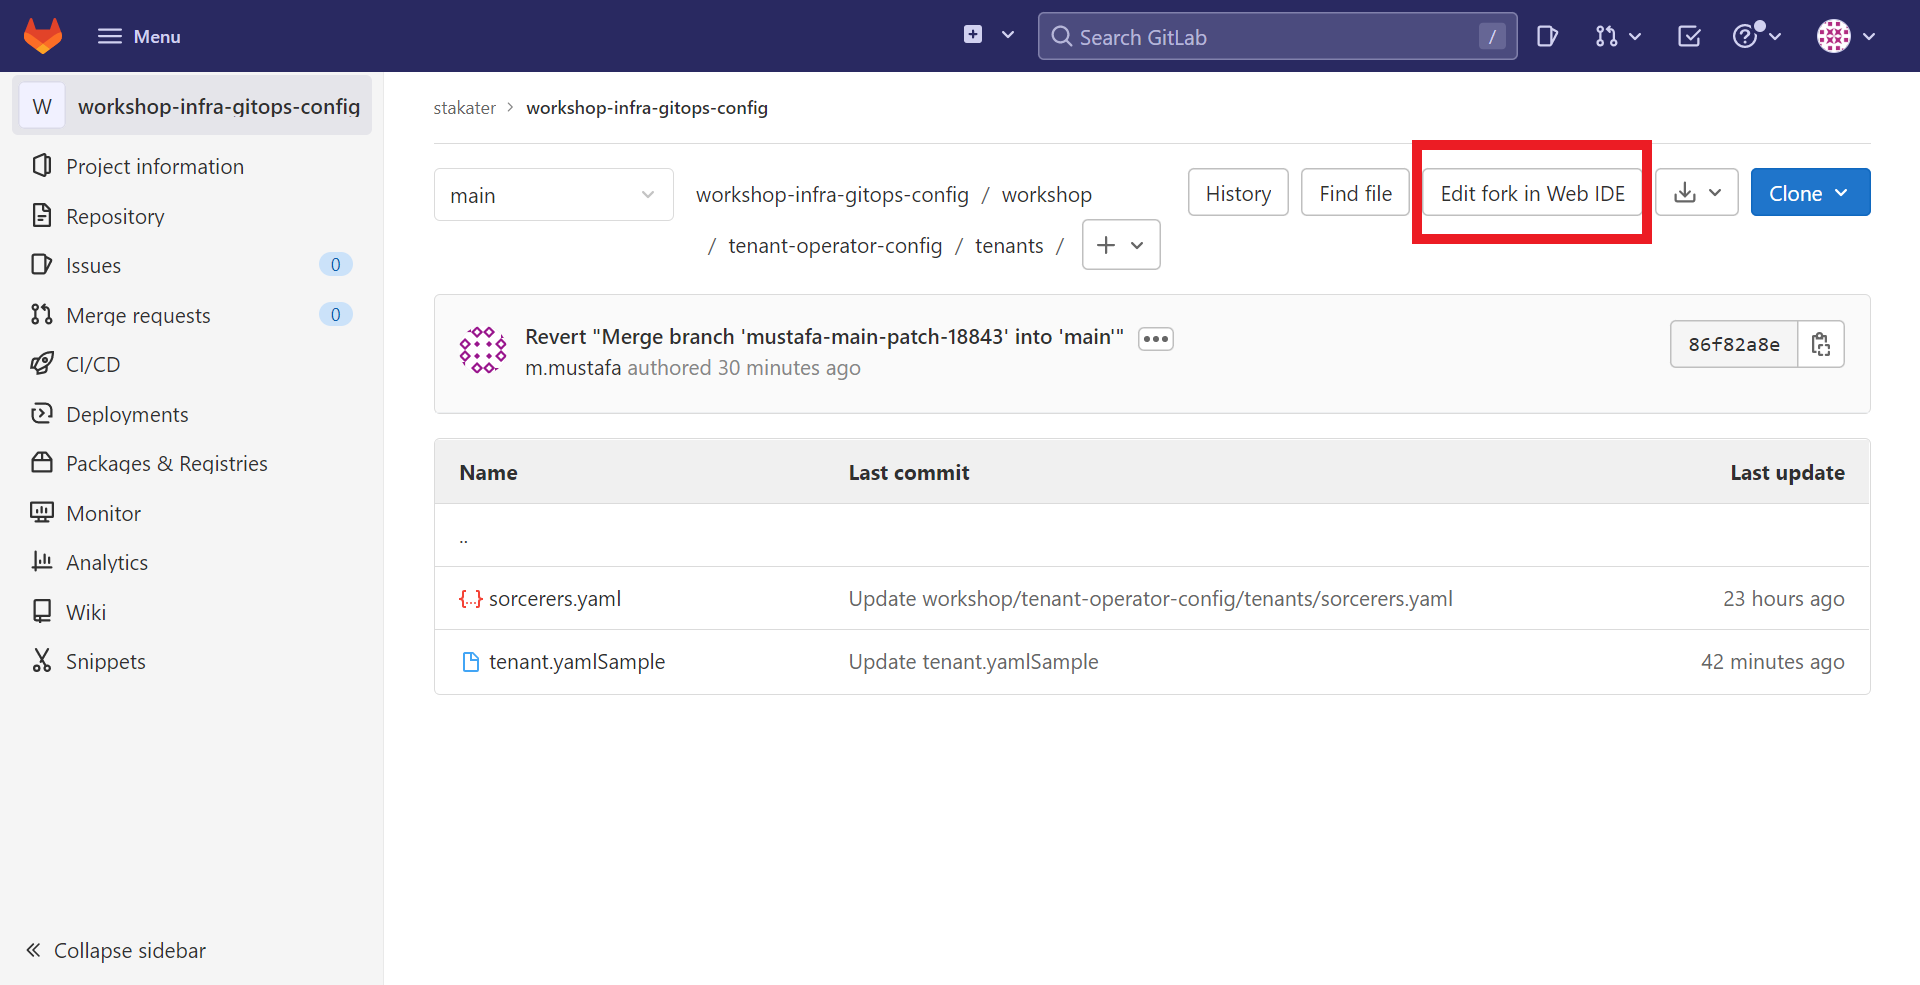
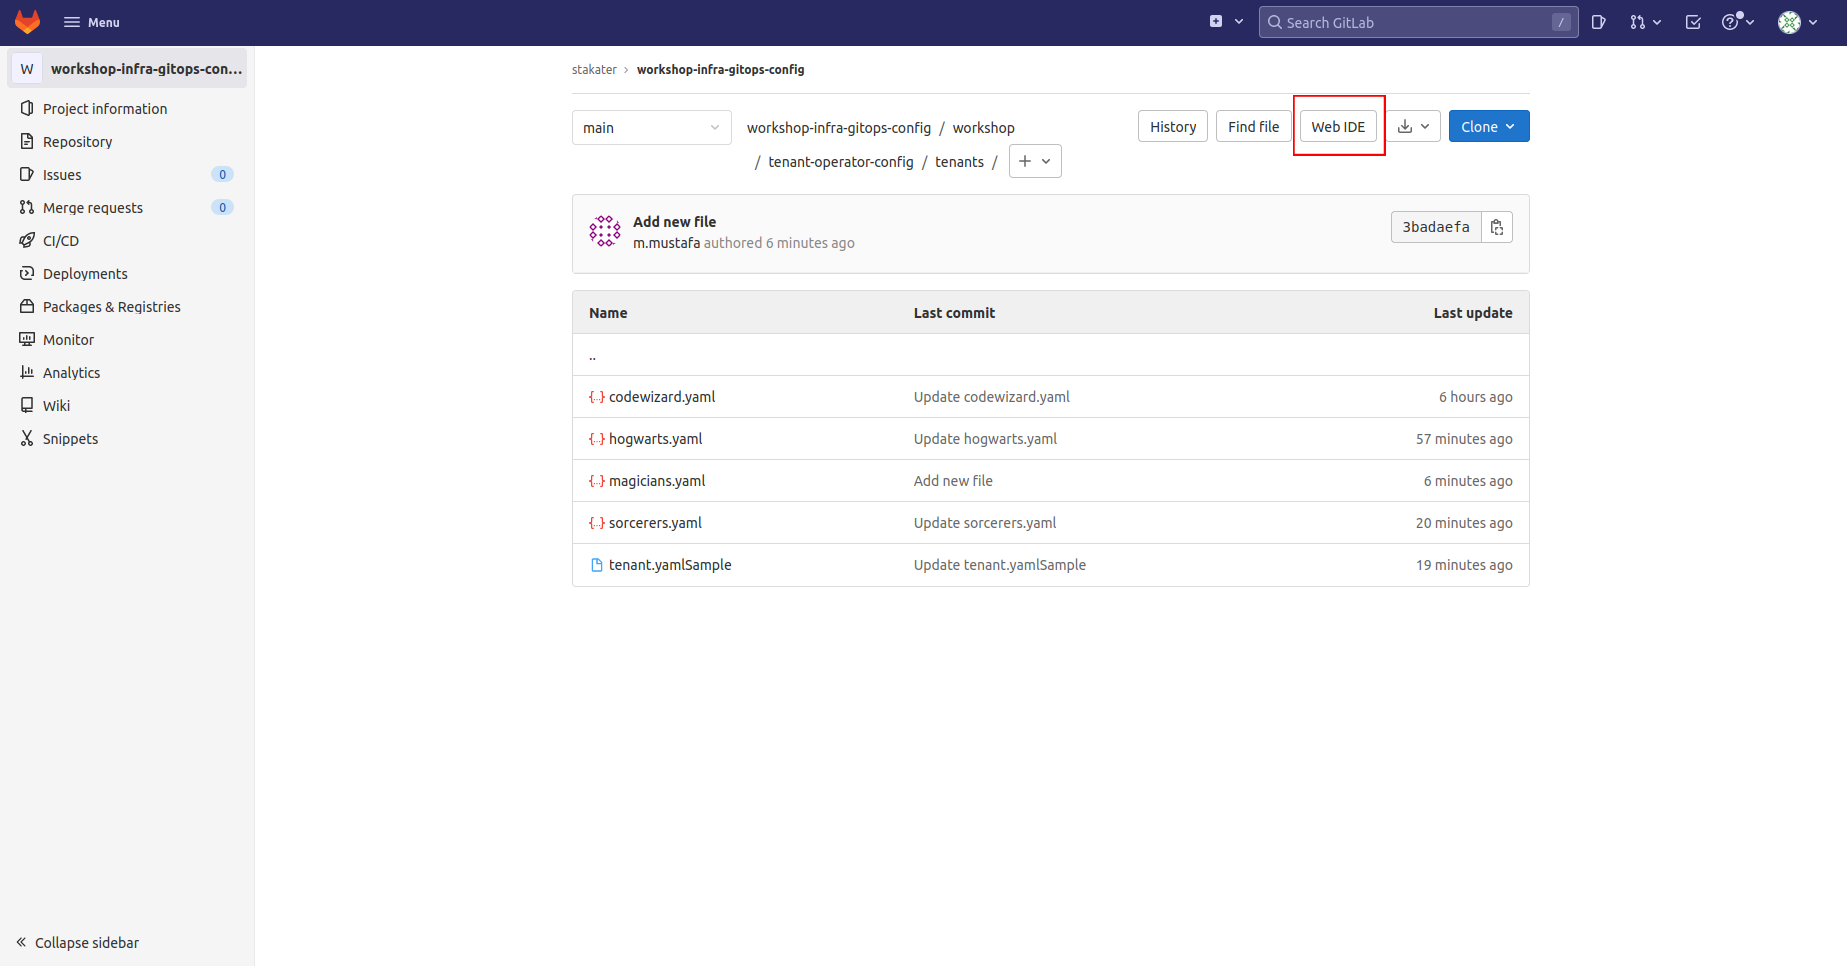
Update TO Docs

diff --git a/docs/1-the-manual-menace/12-tenant-operator-101.md b/docs/1-the-manual-menace/12-tenant-operator-101.md
@@ -18,7 +18,11 @@ The idea of Tenant Operator is to use namespaces as independent sandboxes, where
 
 The following [Repository](https://gitlab.apps.devtest.vxdqgl7u.kubeapp.cloud/stakater/workshop-infra-gitops-config) contains ArgoCD app configurations to help automate the creation of your tenant.
 
-1. From the repository, click on the `workshop` folder.
+1. Open the Nordmart Infra GitOps Config, Click on the `request access` button near project name and wait for admin to approve the access.
+
+   ![infra-access](./images/infra-access.png)
+
+2. Once the access request is approved, from the repository, click on the `workshop` folder.
 
    ![mto-workshop](./images/mto-workshop.png)
 
@@ -32,74 +36,84 @@ The following [Repository](https://gitlab.apps.devtest.vxdqgl7u.kubeapp.cloud/st
    - `tenant-operator-config` which contains your Tenants configurations.
 
 
-2. Click on the `tenant-operator-config` folder.
+3. Click on the `tenant-operator-config` folder.
 
    ![mto-config](./images/mto-config.png)
 
 
-3. Click on the `tenants` folder.
+4. Click on the `tenants` folder.
 
    ![mto-tenants](./images/mto-tenants.png)
 
-> The `tenants` folder contains the configuration for all the tenants. Each tenant representing a fully managed SAAP instance.
+   > The `tenants` folder contains the configuration for all the tenants. The idea of Tenant Operator is to use namespaces as independent sandboxes, where tenant applications can run independently from each other.
 
-4. Click the `Edit Fork in Web IDE` tile to fork the repository.
+5. Click the `Edit in Web IDE` tile to fork the repository.
 
    ![mto-file](./images/mto-fork.png)
 
-5. Create a new file by clicking on the `file` icon at the right corner of your IDE console.
+6. Create a new file by clicking on the `file` icon at the right corner of your IDE console.
 
     
    ![mto-IDE](./images/mto-IDE.png)
 
 
-6. Name your file using the following directory prefix `workshop/tenant-operator-config/tenants/ <TENANT-NAME>.yaml`   
+7. Name your file using the following directory prefix `workshop/tenant-operator-config/tenants/<TENANT-NAME>.yaml`   
 
 
    ![mto-filename](./images/mto-filename.png)
 
 
 
-7. Paste the code below to create a new tenant with a user, a list of argoCD “watched” repositories belonging to the tenant and its accompanying namespaces.
+8. Paste the code below to create a new tenant with a user, a list of argoCD “watched” repositories belonging to the tenant and its accompanying namespaces.
+
+   ```yaml
+   apiVersion: tenantoperator.stakater.com/v1beta1
+   kind: Tenant
+   metadata:
+   name: <TENANT_NAME>
+   spec:
+   quota: workshop-medium
+   owners:
+      users:
+         - <USER_NAME>
+   argocd:
+      sourceRepos:
+         - 'https://gitlab.apps.devtest.vxdqgl7u.kubeapp.cloud/stakater/workshop-infra-gitops-config.git'
+         - 'https://gitlab.apps.devtest.vxdqgl7u.kubeapp.cloud/<TENANT_NAME>/nordmart-apps-gitops-config.git'
+         - 'https://stakater.github.io/stakater-charts'
+         - 'https://nexus-helm-stakater-nexus.apps.devtest.vxdqgl7u.kubeapp.cloud/repository/helm-charts/'
+   namespaces:
+   - dev
+   - build
+   - preview
+   - test
+   - prod
+   templateInstances:
+   - spec:
+         template: tenant-vault-access
+         sync: true
+   specificMetadata:
+      - namespaces:
+         - <TENANT_NAME>-build
+         annotations:
+         openshift.io/node-selector: node-role.kubernetes.io/pipeline=
+
+   ```
+
+   > Replace INSERT_YOUR_TENANT_NAME and INSERT_YOUR_USER_NAME with your preferred tenant name and the username you and your team members registered with.
 
 
-```yaml
-apiVersion: tenantoperator.stakater.com/v1beta1
-kind: Tenant
-metadata:
-  name: <INSERT_YOUR_TENANT_NAME>
-spec:
-  quota: workshop-medium
-  owners:
-    users:
-      - <INSERT_YOUR_USER_NAME>
-  argocd:
-    sourceRepos:
-      - 'https://gitlab.apps.devtest.vxdqgl7u.kubeapp.cloud/stakater/workshop-infra-gitops-config.git'
-      - 'https://gitlab.apps.devtest.vxdqgl7u.kubeapp.cloud/<INSERT_YOUR_TENANT_NAME>/nordmart-apps-gitops-config.git'
-      - 'https://stakater.github.io/stakater-charts'
-  namespaces:
-  - preview
-  - dev
-  - build
-  - test
-  - prod
-```
-
-> Replace INSERT_YOUR_TENANT_NAME and INSERT_YOUR_USER_NAME with your preferred tenant and the username you and your team members registered with.
-
-
-8. Add a useful commit message indicating the changes you wish to make. In the `Target Branch` tile, input your branch name and select `commit changes` to create a merge request.
+9. Add a useful commit message indicating the changes you wish to make. In the `Target Branch` tile, input your branch name and select `commit changes` to create a merge request.
 
 
    ![mto-commit](./images/mto-commit.png)
 
-9. Create a merge request by adding a suitable description and clicking `Create Merge Request`
+10. Create a merge request by adding a suitable description and clicking `Create Merge Request`
 
    ![mto-merge](./images/mto-merge.png)
 
 
-10. Once your merge request is accepted, your tenant will be created. ArgoCD automates the creation of tenants by syncing your desired state with the actual state of your SAAP instance making tenant creation seamless.
+11. Once your merge request is accepted, your tenant will be created. ArgoCD automates the creation of tenants by syncing your desired state with the actual state of your SAAP instance making tenant creation seamless.
 You can view your created tenant and namespaces via your OpenShift Console.
 
    ![mto-project](./images/tenants-created.png)
